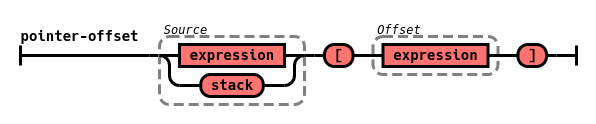
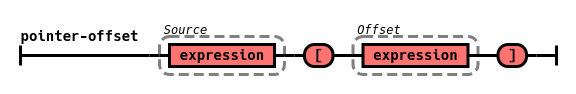
remove stack pointer offsets

Changed region(s): [[0.0312, 0.1915, 0.9688, 0.8723], [0.5938, 0.766, 0.8438, 0.8085]]

diff --git a/part2-nstar.tex b/part2-nstar.tex
@@ -531,14 +531,7 @@ Grammar for pointer offsets is given in Figure~\ref{fig:nstar-common-expressions
     \hypo{\Gamma\vdash^K$ t$_1$ : Tn$_0$, t$_2$ : Tn$_1$, \ldots, t$_m$ : Tn$_{m-1}}
     \infer[no rule, rule margin=1.0ex]1{$n$_0$, n$_1$, \ldots, n$_p\in\mathbb{N}$\hspace{1.5em}$%
                                         \Xi;\chi;\sigma;\epsilon\vdash^T_{code}$ p : *(t$_1$, t$_2$, \ldots, t$_m$)$}
-    \infer1[structure pointer offset]{\Xi;\chi;\sigma;\epsilon\vdash^T_{code}$ p[n$_i$] : t$_{i-1}}
-  \end{prooftree}
-  \\\vspace{\baselineskip}
-  \begin{prooftree}
-    \hypo{$n$_0$, n$_1$, \ldots, n$_p\in\mathbb{N}}
-    \hypo{\hat{\sigma}$ = t$_1$::t$_2$::\ldots::t$_m$::s$}
-    \infer[no rule, rule margin=1.0ex]2{\Gamma\vdash^K$ t$_1$ : Tn$_0$, t$_2$ : Tn$_1$, \ldots, t$_m$ : Tn$_{m-1}$, s : Ts$}
-    \infer1[stack pointer offset]{\Xi;\chi;\hat{\sigma};\epsilon\vdash^T_{code}$ stack[n$_i$] : t$_{i-1}}
+    \infer1[structure pointer offset]{\Xi;\chi;\sigma;\epsilon\vdash^T_{code}$ p[n$_i$] : *t$_{i-1}}
   \end{prooftree}
 
   \caption{Type inference rules for pointer offsets.}

diff --git a/railroad-diagrams.py b/railroad-diagrams.py
@@ -338,11 +338,7 @@ def ptr_byte_offset():
 def ptr_offset():
 	inner = Sequence(
 		Group(
-			Choice(
-				0,
-				NonTerminal('expression'),
-				Terminal('stack')
-			),
+			NonTerminal('expression'),
 			'Source'
 		),
 		Terminal('['),
@@ -431,4 +427,4 @@ def udata_line():
 
 	return mk_diagram('udata-line', inner)
 
-udata_line().writeSvg(sys.stdout.write)
+ptr_offset().writeSvg(sys.stdout.write)
